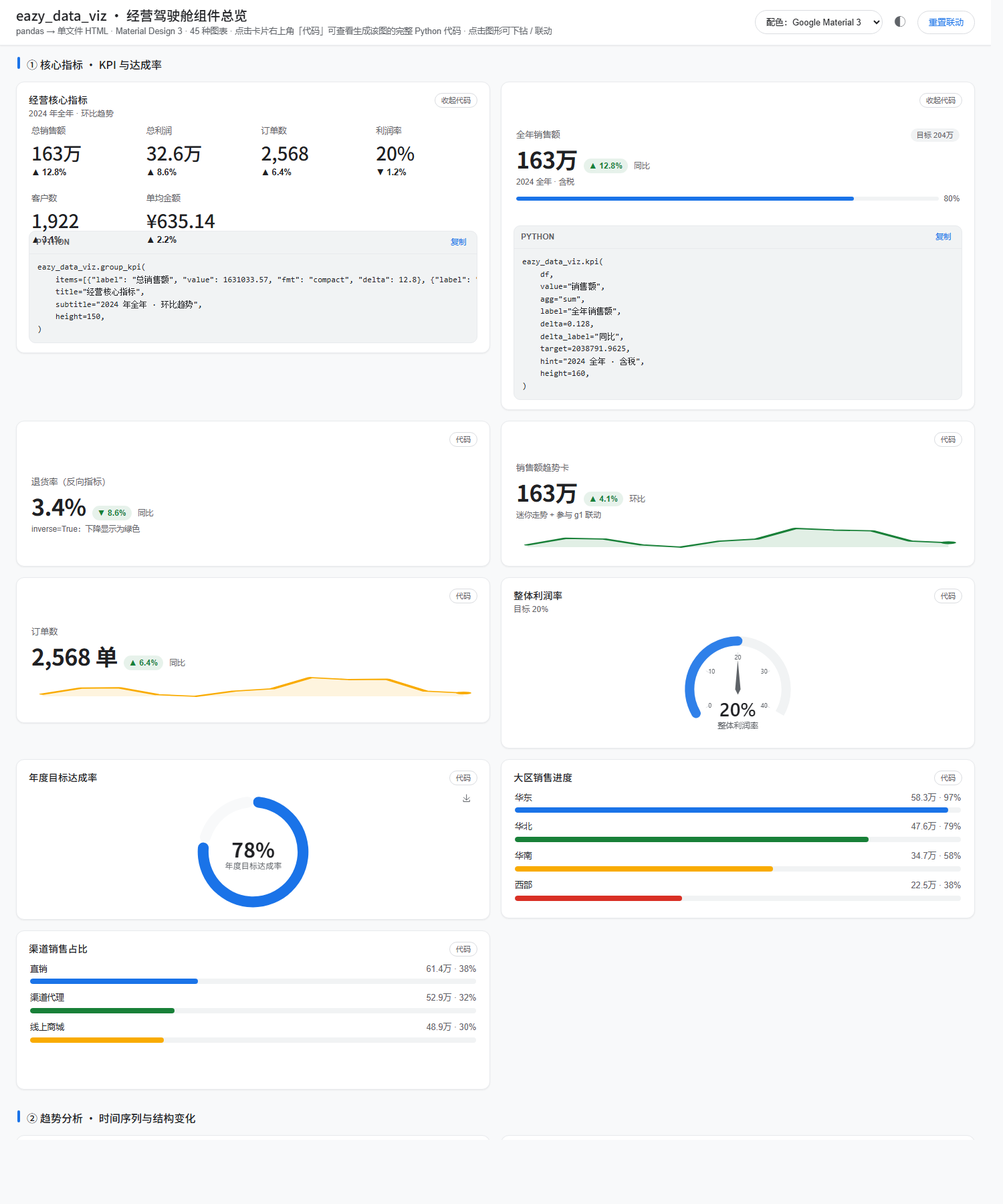
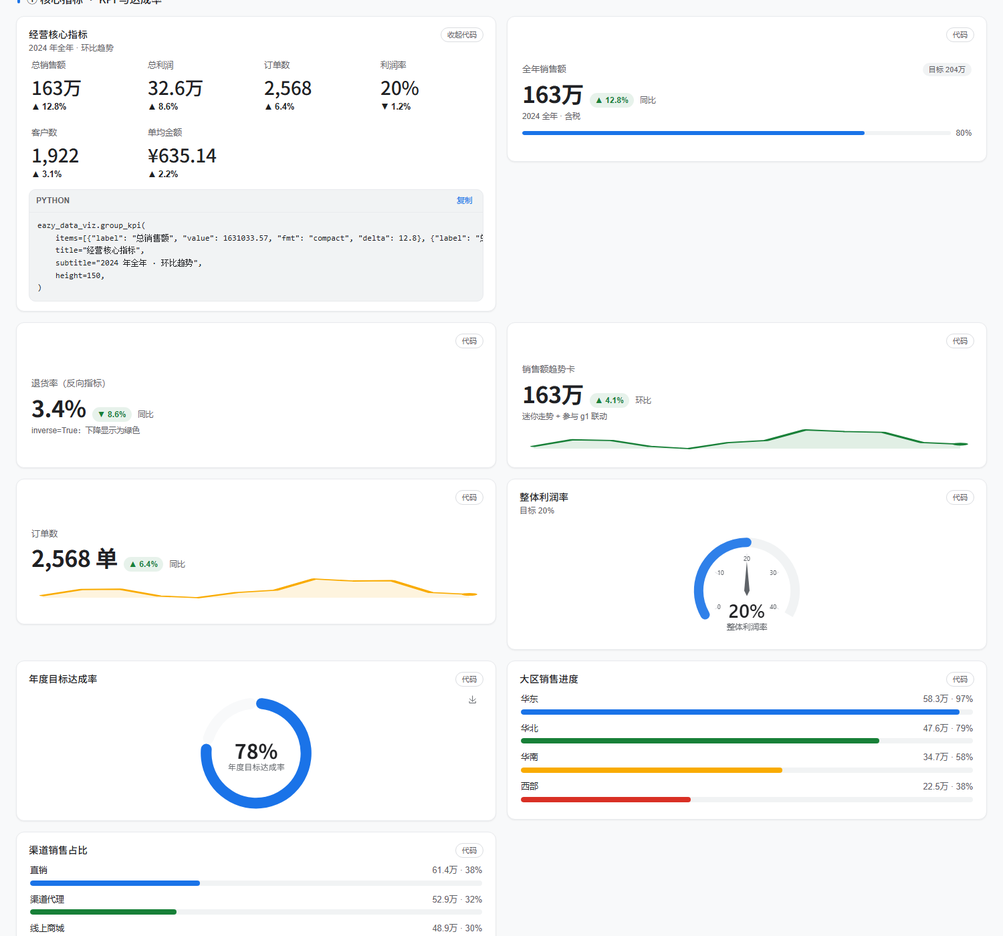
HTML 卡片自适应高度（展开代码不再遮挡正文）；新增 shot_code.py；更新画廊截图

diff --git a/eazy_data_viz/gallery/gallery.html b/eazy_data_viz/gallery/gallery.html
@@ -206,13 +206,13 @@ html[data-theme=dark] .eazy-kpi-delta.eazy-down{background:rgba(242,139,130,.14)
 <div class="eazy-filters" id="eazy-filters" style="display:none"><span class="eazy-filters-label">联动筛选</span></div>
 <div class="eazy-grid" style="grid-template-columns:repeat(2,minmax(0,1fr))">
 <div class="eazy-section">① 核心指标 · KPI 与达成率</div>
-<section class="eazy-card" style="min-height:174px"><div class="eazy-card-head"><div><div class="eazy-card-title">经营核心指标</div><div class="eazy-card-sub">2024 年全年 · 环比趋势</div></div><button class="eazy-codebtn" type="button" data-eazy-code="0" title="显示生成这张图的完整 Python 代码">代码</button></div><div class="eazy-toolbar" data-eazy-toolbar="0"></div><div class="eazy-chart" data-eazy-chart="0" style="height:150px"></div><div class="eazy-code" data-eazy-codebox="0"><div class="eazy-code-top"><span class="lang">PYTHON</span><button class="eazy-copybtn" type="button" data-eazy-copy="0">复制</button></div><pre><code>eazy_data_viz.group_kpi(
+<section class="eazy-card" style="min-height:174px"><div class="eazy-card-head"><div><div class="eazy-card-title">经营核心指标</div><div class="eazy-card-sub">2024 年全年 · 环比趋势</div></div><button class="eazy-codebtn" type="button" data-eazy-code="0" title="显示生成这张图的完整 Python 代码">代码</button></div><div class="eazy-toolbar" data-eazy-toolbar="0"></div><div class="eazy-chart" data-eazy-chart="0" style="min-height:150px"></div><div class="eazy-code" data-eazy-codebox="0"><div class="eazy-code-top"><span class="lang">PYTHON</span><button class="eazy-copybtn" type="button" data-eazy-copy="0">复制</button></div><pre><code>eazy_data_viz.group_kpi(
     items=[{&quot;label&quot;: &quot;总销售额&quot;, &quot;value&quot;: 1631033.57, &quot;fmt&quot;: &quot;compact&quot;, &quot;delta&quot;: 12.8}, {&quot;label&quot;: &quot;总利润&quot;, &quot;value&quot;: 325738.59, &quot;fmt&quot;: &quot;compact&quot;, &quot;delta&quot;: 8.6}, {&quot;label&quot;: &quot;订单数&quot;, &quot;value&quot;: 2568, &quot;fmt&quot;: &quot;thousands&quot;, &quot;delta&quot;: 6.4}, {&quot;label&quot;: &quot;利润率&quot;, &quot;value&quot;: 19.9713, &quot;fmt&quot;: &quot;percent&quot;, &quot;delta&quot;: -1.2}, {&quot;label&quot;: &quot;客户数&quot;, &quot;value&quot;: 1922, &quot;fmt&quot;: &quot;thousands&quot;, &quot;delta&quot;: 3.1}, {&quot;label&quot;: &quot;单均金额&quot;, &quot;value&quot;: 635.1377, &quot;fmt&quot;: &quot;currency&quot;, &quot;delta&quot;: 2.2}],
     title=&quot;经营核心指标&quot;,
     subtitle=&quot;2024 年全年 · 环比趋势&quot;,
     height=150,
 )</code></pre></div></section>
-<section class="eazy-card" style="min-height:184px"><div class="eazy-card-head"><div></div><button class="eazy-codebtn" type="button" data-eazy-code="1" title="显示生成这张图的完整 Python 代码">代码</button></div><div class="eazy-toolbar" data-eazy-toolbar="1"></div><div class="eazy-kpi" data-eazy-chart="1" style="height:160px"></div><div class="eazy-code" data-eazy-codebox="1"><div class="eazy-code-top"><span class="lang">PYTHON</span><button class="eazy-copybtn" type="button" data-eazy-copy="1">复制</button></div><pre><code>eazy_data_viz.kpi(
+<section class="eazy-card" style="min-height:184px"><div class="eazy-card-head"><div></div><button class="eazy-codebtn" type="button" data-eazy-code="1" title="显示生成这张图的完整 Python 代码">代码</button></div><div class="eazy-toolbar" data-eazy-toolbar="1"></div><div class="eazy-kpi" data-eazy-chart="1" style="min-height:160px"></div><div class="eazy-code" data-eazy-codebox="1"><div class="eazy-code-top"><span class="lang">PYTHON</span><button class="eazy-copybtn" type="button" data-eazy-copy="1">复制</button></div><pre><code>eazy_data_viz.kpi(
     df,
     value=&quot;销售额&quot;,
     agg=&quot;sum&quot;,
@@ -223,7 +223,7 @@ html[data-theme=dark] .eazy-kpi-delta.eazy-down{background:rgba(242,139,130,.14)
     hint=&quot;2024 全年 · 含税&quot;,
     height=160,
 )</code></pre></div></section>
-<section class="eazy-card" style="min-height:184px"><div class="eazy-card-head"><div></div><button class="eazy-codebtn" type="button" data-eazy-code="2" title="显示生成这张图的完整 Python 代码">代码</button></div><div class="eazy-toolbar" data-eazy-toolbar="2"></div><div class="eazy-kpi" data-eazy-chart="2" style="height:160px"></div><div class="eazy-code" data-eazy-codebox="2"><div class="eazy-code-top"><span class="lang">PYTHON</span><button class="eazy-copybtn" type="button" data-eazy-copy="2">复制</button></div><pre><code>eazy_data_viz.kpi(
+<section class="eazy-card" style="min-height:184px"><div class="eazy-card-head"><div></div><button class="eazy-codebtn" type="button" data-eazy-code="2" title="显示生成这张图的完整 Python 代码">代码</button></div><div class="eazy-toolbar" data-eazy-toolbar="2"></div><div class="eazy-kpi" data-eazy-chart="2" style="min-height:160px"></div><div class="eazy-code" data-eazy-codebox="2"><div class="eazy-code-top"><span class="lang">PYTHON</span><button class="eazy-copybtn" type="button" data-eazy-copy="2">复制</button></div><pre><code>eazy_data_viz.kpi(
     3.4,
     label=&quot;退货率（反向指标）&quot;,
     delta=-0.086,
@@ -233,7 +233,7 @@ html[data-theme=dark] .eazy-kpi-delta.eazy-down{background:rgba(242,139,130,.14)
     hint=&quot;inverse=True：下降显示为绿色&quot;,
     height=160,
 )</code></pre></div></section>
-<section class="eazy-card" style="min-height:184px"><div class="eazy-card-head"><div></div><button class="eazy-codebtn" type="button" data-eazy-code="3" title="显示生成这张图的完整 Python 代码">代码</button></div><div class="eazy-toolbar" data-eazy-toolbar="3"></div><div class="eazy-kpi" data-eazy-chart="3" style="height:160px"></div><div class="eazy-code" data-eazy-codebox="3"><div class="eazy-code-top"><span class="lang">PYTHON</span><button class="eazy-copybtn" type="button" data-eazy-copy="3">复制</button></div><pre><code>eazy_data_viz.kpi(
+<section class="eazy-card" style="min-height:184px"><div class="eazy-card-head"><div></div><button class="eazy-codebtn" type="button" data-eazy-code="3" title="显示生成这张图的完整 Python 代码">代码</button></div><div class="eazy-toolbar" data-eazy-toolbar="3"></div><div class="eazy-kpi" data-eazy-chart="3" style="min-height:160px"></div><div class="eazy-code" data-eazy-codebox="3"><div class="eazy-code-top"><span class="lang">PYTHON</span><button class="eazy-copybtn" type="button" data-eazy-copy="3">复制</button></div><pre><code>eazy_data_viz.kpi(
     df,
     value=&quot;销售额&quot;,
     agg=&quot;sum&quot;,
@@ -247,7 +247,7 @@ html[data-theme=dark] .eazy-kpi-delta.eazy-down{background:rgba(242,139,130,.14)
     hint=&quot;迷你走势 + 参与 g1 联动&quot;,
     height=160,
 )</code></pre></div></section>
-<section class="eazy-card" style="min-height:184px"><div class="eazy-card-head"><div></div><button class="eazy-codebtn" type="button" data-eazy-code="4" title="显示生成这张图的完整 Python 代码">代码</button></div><div class="eazy-toolbar" data-eazy-toolbar="4"></div><div class="eazy-kpi" data-eazy-chart="4" style="height:160px"></div><div class="eazy-code" data-eazy-codebox="4"><div class="eazy-code-top"><span class="lang">PYTHON</span><button class="eazy-copybtn" type="button" data-eazy-copy="4">复制</button></div><pre><code>eazy_data_viz.kpi(
+<section class="eazy-card" style="min-height:184px"><div class="eazy-card-head"><div></div><button class="eazy-codebtn" type="button" data-eazy-code="4" title="显示生成这张图的完整 Python 代码">代码</button></div><div class="eazy-toolbar" data-eazy-toolbar="4"></div><div class="eazy-kpi" data-eazy-chart="4" style="min-height:160px"></div><div class="eazy-code" data-eazy-codebox="4"><div class="eazy-code-top"><span class="lang">PYTHON</span><button class="eazy-copybtn" type="button" data-eazy-copy="4">复制</button></div><pre><code>eazy_data_viz.kpi(
     df,
     value=&quot;订单数&quot;,
     agg=&quot;sum&quot;,
@@ -271,8 +271,8 @@ html[data-theme=dark] .eazy-kpi-delta.eazy-down{background:rgba(242,139,130,.14)
     subtitle=&quot;目标 20%&quot;,
 )</code></pre></div></section>
 <section class="eazy-card" style="min-height:240px"><div class="eazy-card-head"><div><div class="eazy-card-title">年度目标达成率</div></div><button class="eazy-codebtn" type="button" data-eazy-code="6" title="显示生成这张图的完整 Python 代码">代码</button></div><div class="eazy-toolbar" data-eazy-toolbar="6"></div><div class="eazy-chart" data-eazy-chart="6" style="height:180px"></div><div class="eazy-code" data-eazy-codebox="6"><div class="eazy-code-top"><span class="lang">PYTHON</span><button class="eazy-copybtn" type="button" data-eazy-copy="6">复制</button></div><pre><code>eazy_data_viz.ring_progress(78, label=&quot;年度目标达成率&quot;, max=100, height=180)</code></pre></div></section>
-<section class="eazy-card" style="min-height:236px"><div class="eazy-card-head"><div><div class="eazy-card-title">大区销售进度</div></div><button class="eazy-codebtn" type="button" data-eazy-code="7" title="显示生成这张图的完整 Python 代码">代码</button></div><div class="eazy-toolbar" data-eazy-toolbar="7"></div><div class="eazy-chart" data-eazy-chart="7" style="height:180px"></div><div class="eazy-code" data-eazy-codebox="7"><div class="eazy-code-top"><span class="lang">PYTHON</span><button class="eazy-copybtn" type="button" data-eazy-copy="7">复制</button></div><pre><code>eazy_data_viz.progress(g_region, x=&quot;大区&quot;, y=&quot;销售额&quot;, max=600000, title=&quot;大区销售进度&quot;, height=180)</code></pre></div></section>
-<section class="eazy-card" style="min-height:236px"><div class="eazy-card-head"><div><div class="eazy-card-title">渠道销售占比</div></div><button class="eazy-codebtn" type="button" data-eazy-code="8" title="显示生成这张图的完整 Python 代码">代码</button></div><div class="eazy-toolbar" data-eazy-toolbar="8"></div><div class="eazy-chart" data-eazy-chart="8" style="height:180px"></div><div class="eazy-code" data-eazy-codebox="8"><div class="eazy-code-top"><span class="lang">PYTHON</span><button class="eazy-copybtn" type="button" data-eazy-copy="8">复制</button></div><pre><code>eazy_data_viz.progress(df, x=&quot;渠道&quot;, y=&quot;销售额&quot;, max=1631033.57, title=&quot;渠道销售占比&quot;, height=180)</code></pre></div></section>
+<section class="eazy-card" style="min-height:236px"><div class="eazy-card-head"><div><div class="eazy-card-title">大区销售进度</div></div><button class="eazy-codebtn" type="button" data-eazy-code="7" title="显示生成这张图的完整 Python 代码">代码</button></div><div class="eazy-toolbar" data-eazy-toolbar="7"></div><div class="eazy-chart" data-eazy-chart="7" style="min-height:180px"></div><div class="eazy-code" data-eazy-codebox="7"><div class="eazy-code-top"><span class="lang">PYTHON</span><button class="eazy-copybtn" type="button" data-eazy-copy="7">复制</button></div><pre><code>eazy_data_viz.progress(g_region, x=&quot;大区&quot;, y=&quot;销售额&quot;, max=600000, title=&quot;大区销售进度&quot;, height=180)</code></pre></div></section>
+<section class="eazy-card" style="min-height:236px"><div class="eazy-card-head"><div><div class="eazy-card-title">渠道销售占比</div></div><button class="eazy-codebtn" type="button" data-eazy-code="8" title="显示生成这张图的完整 Python 代码">代码</button></div><div class="eazy-toolbar" data-eazy-toolbar="8"></div><div class="eazy-chart" data-eazy-chart="8" style="min-height:180px"></div><div class="eazy-code" data-eazy-codebox="8"><div class="eazy-code-top"><span class="lang">PYTHON</span><button class="eazy-copybtn" type="button" data-eazy-copy="8">复制</button></div><pre><code>eazy_data_viz.progress(df, x=&quot;渠道&quot;, y=&quot;销售额&quot;, max=1631033.57, title=&quot;渠道销售占比&quot;, height=180)</code></pre></div></section>
 <div class="eazy-section">② 趋势分析 · 时间序列与结构变化</div>
 <section class="eazy-card" style="min-height:420px"><div class="eazy-card-head"><div><div class="eazy-card-title">月度销售额趋势（多系列）</div></div><button class="eazy-codebtn" type="button" data-eazy-code="9" title="显示生成这张图的完整 Python 代码">代码</button></div><div class="eazy-toolbar" data-eazy-toolbar="9"></div><div class="eazy-chart" data-eazy-chart="9" style="height:360px"></div><div class="eazy-code" data-eazy-codebox="9"><div class="eazy-code-top"><span class="lang">PYTHON</span><button class="eazy-copybtn" type="button" data-eazy-copy="9">复制</button></div><pre><code>eazy_data_viz.line(df, x=&quot;月份&quot;, y=&quot;销售额&quot;, color=&quot;渠道&quot;, title=&quot;月度销售额趋势（多系列）&quot;, height=360)</code></pre></div></section>
 <section class="eazy-card" style="min-height:420px"><div class="eazy-card-head"><div><div class="eazy-card-title">日销售额走势（时间轴）</div></div><button class="eazy-codebtn" type="button" data-eazy-code="10" title="显示生成这张图的完整 Python 代码">代码</button></div><div class="eazy-toolbar" data-eazy-toolbar="10"></div><div class="eazy-chart" data-eazy-chart="10" style="height:360px"></div><div class="eazy-code" data-eazy-codebox="10"><div class="eazy-code-top"><span class="lang">PYTHON</span><button class="eazy-copybtn" type="button" data-eazy-copy="10">复制</button></div><pre><code>eazy_data_viz.line(
@@ -382,7 +382,7 @@ html[data-theme=dark] .eazy-kpi-delta.eazy-down{background:rgba(242,139,130,.14)
 <section class="eazy-card" style="min-height:460px"><div class="eazy-card-head"><div><div class="eazy-card-title">矩形树图：大区 → 省份</div></div><button class="eazy-codebtn" type="button" data-eazy-code="35" title="显示生成这张图的完整 Python 代码">代码</button></div><div class="eazy-toolbar" data-eazy-toolbar="35"></div><div class="eazy-chart" data-eazy-chart="35" style="height:400px"></div><div class="eazy-code" data-eazy-codebox="35"><div class="eazy-code-top"><span class="lang">PYTHON</span><button class="eazy-copybtn" type="button" data-eazy-copy="35">复制</button></div><pre><code>eazy_data_viz.treemap(df, path=[&quot;大区&quot;, &quot;省份&quot;], value=&quot;销售额&quot;, title=&quot;矩形树图：大区 → 省份&quot;, height=400)</code></pre></div></section>
 <section class="eazy-card" style="min-height:460px"><div class="eazy-card-head"><div><div class="eazy-card-title">旭日图：层级占比</div></div><button class="eazy-codebtn" type="button" data-eazy-code="36" title="显示生成这张图的完整 Python 代码">代码</button></div><div class="eazy-toolbar" data-eazy-toolbar="36"></div><div class="eazy-chart" data-eazy-chart="36" style="height:400px"></div><div class="eazy-code" data-eazy-codebox="36"><div class="eazy-code-top"><span class="lang">PYTHON</span><button class="eazy-copybtn" type="button" data-eazy-copy="36">复制</button></div><pre><code>eazy_data_viz.sunburst(df, path=[&quot;大区&quot;, &quot;省份&quot;], value=&quot;销售额&quot;, title=&quot;旭日图：层级占比&quot;, height=400)</code></pre></div></section>
 <section class="eazy-card" style="min-height:580px"><div class="eazy-card-head"><div><div class="eazy-card-title">树图：层级结构</div></div><button class="eazy-codebtn" type="button" data-eazy-code="37" title="显示生成这张图的完整 Python 代码">代码</button></div><div class="eazy-toolbar" data-eazy-toolbar="37"></div><div class="eazy-chart" data-eazy-chart="37" style="height:520px"></div><div class="eazy-code" data-eazy-codebox="37"><div class="eazy-code-top"><span class="lang">PYTHON</span><button class="eazy-copybtn" type="button" data-eazy-copy="37">复制</button></div><pre><code>eazy_data_viz.tree(df, path=[&quot;大区&quot;, &quot;省份&quot;], value=&quot;销售额&quot;, title=&quot;树图：层级结构&quot;, height=520)</code></pre></div></section>
-<section class="eazy-card" style="min-height:356px"><div class="eazy-card-head"><div><div class="eazy-card-title">瓦片图：省份销售额深浅</div></div><button class="eazy-codebtn" type="button" data-eazy-code="38" title="显示生成这张图的完整 Python 代码">代码</button></div><div class="eazy-toolbar" data-eazy-toolbar="38"></div><div class="eazy-chart" data-eazy-chart="38" style="height:300px"></div><div class="eazy-code" data-eazy-codebox="38"><div class="eazy-code-top"><span class="lang">PYTHON</span><button class="eazy-copybtn" type="button" data-eazy-copy="38">复制</button></div><pre><code>eazy_data_viz.tile(df, names=&quot;省份&quot;, values=&quot;销售额&quot;, top_n=8, title=&quot;瓦片图：省份销售额深浅&quot;, height=300)</code></pre></div></section>
+<section class="eazy-card" style="min-height:356px"><div class="eazy-card-head"><div><div class="eazy-card-title">瓦片图：省份销售额深浅</div></div><button class="eazy-codebtn" type="button" data-eazy-code="38" title="显示生成这张图的完整 Python 代码">代码</button></div><div class="eazy-toolbar" data-eazy-toolbar="38"></div><div class="eazy-chart" data-eazy-chart="38" style="min-height:300px"></div><div class="eazy-code" data-eazy-codebox="38"><div class="eazy-code-top"><span class="lang">PYTHON</span><button class="eazy-copybtn" type="button" data-eazy-copy="38">复制</button></div><pre><code>eazy_data_viz.tile(df, names=&quot;省份&quot;, values=&quot;销售额&quot;, top_n=8, title=&quot;瓦片图：省份销售额深浅&quot;, height=300)</code></pre></div></section>
 <div class="eazy-section">⑤ 分布与关系 · 找规律、找相关</div>
 <section class="eazy-card" style="min-height:420px"><div class="eazy-card-head"><div><div class="eazy-card-title">直方图：销售额分布</div></div><button class="eazy-codebtn" type="button" data-eazy-code="39" title="显示生成这张图的完整 Python 代码">代码</button></div><div class="eazy-toolbar" data-eazy-toolbar="39"></div><div class="eazy-chart" data-eazy-chart="39" style="height:360px"></div><div class="eazy-code" data-eazy-codebox="39"><div class="eazy-code-top"><span class="lang">PYTHON</span><button class="eazy-copybtn" type="button" data-eazy-copy="39">复制</button></div><pre><code>eazy_data_viz.histogram(df, column=&quot;销售额&quot;, bins=24, title=&quot;直方图：销售额分布&quot;, height=360)</code></pre></div></section>
 <section class="eazy-card" style="min-height:420px"><div class="eazy-card-head"><div><div class="eazy-card-title">箱线图：产品销售额离散度</div></div><button class="eazy-codebtn" type="button" data-eazy-code="40" title="显示生成这张图的完整 Python 代码">代码</button></div><div class="eazy-toolbar" data-eazy-toolbar="40"></div><div class="eazy-chart" data-eazy-chart="40" style="height:360px"></div><div class="eazy-code" data-eazy-codebox="40"><div class="eazy-code-top"><span class="lang">PYTHON</span><button class="eazy-copybtn" type="button" data-eazy-copy="40">复制</button></div><pre><code>eazy_data_viz.box(df, x=&quot;产品&quot;, y=&quot;销售额&quot;, title=&quot;箱线图：产品销售额离散度&quot;, height=360)</code></pre></div></section>
@@ -446,7 +446,7 @@ html[data-theme=dark] .eazy-kpi-delta.eazy-down{background:rgba(242,139,130,.14)
     title=&quot;明细表（前 12 行）&quot;,
     height=420,
 )</code></pre></div></section>
-<section class="eazy-card" style="min-height:376px"><div class="eazy-card-head"><div><div class="eazy-card-title">词云：城市销售额</div></div><button class="eazy-codebtn" type="button" data-eazy-code="50" title="显示生成这张图的完整 Python 代码">代码</button></div><div class="eazy-toolbar" data-eazy-toolbar="50"></div><div class="eazy-chart" data-eazy-chart="50" style="height:320px"></div><div class="eazy-code" data-eazy-codebox="50"><div class="eazy-code-top"><span class="lang">PYTHON</span><button class="eazy-copybtn" type="button" data-eazy-copy="50">复制</button></div><pre><code>eazy_data_viz.wordcloud(
+<section class="eazy-card" style="min-height:376px"><div class="eazy-card-head"><div><div class="eazy-card-title">词云：城市销售额</div></div><button class="eazy-codebtn" type="button" data-eazy-code="50" title="显示生成这张图的完整 Python 代码">代码</button></div><div class="eazy-toolbar" data-eazy-toolbar="50"></div><div class="eazy-chart" data-eazy-chart="50" style="min-height:320px"></div><div class="eazy-code" data-eazy-codebox="50"><div class="eazy-code-top"><span class="lang">PYTHON</span><button class="eazy-copybtn" type="button" data-eazy-copy="50">复制</button></div><pre><code>eazy_data_viz.wordcloud(
     df,
     names=&quot;城市&quot;,
     values=&quot;销售额&quot;,

diff --git a/gallery.html b/gallery.html
@@ -206,13 +206,13 @@ html[data-theme=dark] .eazy-kpi-delta.eazy-down{background:rgba(242,139,130,.14)
 <div class="eazy-filters" id="eazy-filters" style="display:none"><span class="eazy-filters-label">联动筛选</span></div>
 <div class="eazy-grid" style="grid-template-columns:repeat(2,minmax(0,1fr))">
 <div class="eazy-section">① 核心指标 · KPI 与达成率</div>
-<section class="eazy-card" style="min-height:174px"><div class="eazy-card-head"><div><div class="eazy-card-title">经营核心指标</div><div class="eazy-card-sub">2024 年全年 · 环比趋势</div></div><button class="eazy-codebtn" type="button" data-eazy-code="0" title="显示生成这张图的完整 Python 代码">代码</button></div><div class="eazy-toolbar" data-eazy-toolbar="0"></div><div class="eazy-chart" data-eazy-chart="0" style="height:150px"></div><div class="eazy-code" data-eazy-codebox="0"><div class="eazy-code-top"><span class="lang">PYTHON</span><button class="eazy-copybtn" type="button" data-eazy-copy="0">复制</button></div><pre><code>eazy_data_viz.group_kpi(
+<section class="eazy-card" style="min-height:174px"><div class="eazy-card-head"><div><div class="eazy-card-title">经营核心指标</div><div class="eazy-card-sub">2024 年全年 · 环比趋势</div></div><button class="eazy-codebtn" type="button" data-eazy-code="0" title="显示生成这张图的完整 Python 代码">代码</button></div><div class="eazy-toolbar" data-eazy-toolbar="0"></div><div class="eazy-chart" data-eazy-chart="0" style="min-height:150px"></div><div class="eazy-code" data-eazy-codebox="0"><div class="eazy-code-top"><span class="lang">PYTHON</span><button class="eazy-copybtn" type="button" data-eazy-copy="0">复制</button></div><pre><code>eazy_data_viz.group_kpi(
     items=[{&quot;label&quot;: &quot;总销售额&quot;, &quot;value&quot;: 1631033.57, &quot;fmt&quot;: &quot;compact&quot;, &quot;delta&quot;: 12.8}, {&quot;label&quot;: &quot;总利润&quot;, &quot;value&quot;: 325738.59, &quot;fmt&quot;: &quot;compact&quot;, &quot;delta&quot;: 8.6}, {&quot;label&quot;: &quot;订单数&quot;, &quot;value&quot;: 2568, &quot;fmt&quot;: &quot;thousands&quot;, &quot;delta&quot;: 6.4}, {&quot;label&quot;: &quot;利润率&quot;, &quot;value&quot;: 19.9713, &quot;fmt&quot;: &quot;percent&quot;, &quot;delta&quot;: -1.2}, {&quot;label&quot;: &quot;客户数&quot;, &quot;value&quot;: 1922, &quot;fmt&quot;: &quot;thousands&quot;, &quot;delta&quot;: 3.1}, {&quot;label&quot;: &quot;单均金额&quot;, &quot;value&quot;: 635.1377, &quot;fmt&quot;: &quot;currency&quot;, &quot;delta&quot;: 2.2}],
     title=&quot;经营核心指标&quot;,
     subtitle=&quot;2024 年全年 · 环比趋势&quot;,
     height=150,
 )</code></pre></div></section>
-<section class="eazy-card" style="min-height:184px"><div class="eazy-card-head"><div></div><button class="eazy-codebtn" type="button" data-eazy-code="1" title="显示生成这张图的完整 Python 代码">代码</button></div><div class="eazy-toolbar" data-eazy-toolbar="1"></div><div class="eazy-kpi" data-eazy-chart="1" style="height:160px"></div><div class="eazy-code" data-eazy-codebox="1"><div class="eazy-code-top"><span class="lang">PYTHON</span><button class="eazy-copybtn" type="button" data-eazy-copy="1">复制</button></div><pre><code>eazy_data_viz.kpi(
+<section class="eazy-card" style="min-height:184px"><div class="eazy-card-head"><div></div><button class="eazy-codebtn" type="button" data-eazy-code="1" title="显示生成这张图的完整 Python 代码">代码</button></div><div class="eazy-toolbar" data-eazy-toolbar="1"></div><div class="eazy-kpi" data-eazy-chart="1" style="min-height:160px"></div><div class="eazy-code" data-eazy-codebox="1"><div class="eazy-code-top"><span class="lang">PYTHON</span><button class="eazy-copybtn" type="button" data-eazy-copy="1">复制</button></div><pre><code>eazy_data_viz.kpi(
     df,
     value=&quot;销售额&quot;,
     agg=&quot;sum&quot;,
@@ -223,7 +223,7 @@ html[data-theme=dark] .eazy-kpi-delta.eazy-down{background:rgba(242,139,130,.14)
     hint=&quot;2024 全年 · 含税&quot;,
     height=160,
 )</code></pre></div></section>
-<section class="eazy-card" style="min-height:184px"><div class="eazy-card-head"><div></div><button class="eazy-codebtn" type="button" data-eazy-code="2" title="显示生成这张图的完整 Python 代码">代码</button></div><div class="eazy-toolbar" data-eazy-toolbar="2"></div><div class="eazy-kpi" data-eazy-chart="2" style="height:160px"></div><div class="eazy-code" data-eazy-codebox="2"><div class="eazy-code-top"><span class="lang">PYTHON</span><button class="eazy-copybtn" type="button" data-eazy-copy="2">复制</button></div><pre><code>eazy_data_viz.kpi(
+<section class="eazy-card" style="min-height:184px"><div class="eazy-card-head"><div></div><button class="eazy-codebtn" type="button" data-eazy-code="2" title="显示生成这张图的完整 Python 代码">代码</button></div><div class="eazy-toolbar" data-eazy-toolbar="2"></div><div class="eazy-kpi" data-eazy-chart="2" style="min-height:160px"></div><div class="eazy-code" data-eazy-codebox="2"><div class="eazy-code-top"><span class="lang">PYTHON</span><button class="eazy-copybtn" type="button" data-eazy-copy="2">复制</button></div><pre><code>eazy_data_viz.kpi(
     3.4,
     label=&quot;退货率（反向指标）&quot;,
     delta=-0.086,
@@ -233,7 +233,7 @@ html[data-theme=dark] .eazy-kpi-delta.eazy-down{background:rgba(242,139,130,.14)
     hint=&quot;inverse=True：下降显示为绿色&quot;,
     height=160,
 )</code></pre></div></section>
-<section class="eazy-card" style="min-height:184px"><div class="eazy-card-head"><div></div><button class="eazy-codebtn" type="button" data-eazy-code="3" title="显示生成这张图的完整 Python 代码">代码</button></div><div class="eazy-toolbar" data-eazy-toolbar="3"></div><div class="eazy-kpi" data-eazy-chart="3" style="height:160px"></div><div class="eazy-code" data-eazy-codebox="3"><div class="eazy-code-top"><span class="lang">PYTHON</span><button class="eazy-copybtn" type="button" data-eazy-copy="3">复制</button></div><pre><code>eazy_data_viz.kpi(
+<section class="eazy-card" style="min-height:184px"><div class="eazy-card-head"><div></div><button class="eazy-codebtn" type="button" data-eazy-code="3" title="显示生成这张图的完整 Python 代码">代码</button></div><div class="eazy-toolbar" data-eazy-toolbar="3"></div><div class="eazy-kpi" data-eazy-chart="3" style="min-height:160px"></div><div class="eazy-code" data-eazy-codebox="3"><div class="eazy-code-top"><span class="lang">PYTHON</span><button class="eazy-copybtn" type="button" data-eazy-copy="3">复制</button></div><pre><code>eazy_data_viz.kpi(
     df,
     value=&quot;销售额&quot;,
     agg=&quot;sum&quot;,
@@ -247,7 +247,7 @@ html[data-theme=dark] .eazy-kpi-delta.eazy-down{background:rgba(242,139,130,.14)
     hint=&quot;迷你走势 + 参与 g1 联动&quot;,
     height=160,
 )</code></pre></div></section>
-<section class="eazy-card" style="min-height:184px"><div class="eazy-card-head"><div></div><button class="eazy-codebtn" type="button" data-eazy-code="4" title="显示生成这张图的完整 Python 代码">代码</button></div><div class="eazy-toolbar" data-eazy-toolbar="4"></div><div class="eazy-kpi" data-eazy-chart="4" style="height:160px"></div><div class="eazy-code" data-eazy-codebox="4"><div class="eazy-code-top"><span class="lang">PYTHON</span><button class="eazy-copybtn" type="button" data-eazy-copy="4">复制</button></div><pre><code>eazy_data_viz.kpi(
+<section class="eazy-card" style="min-height:184px"><div class="eazy-card-head"><div></div><button class="eazy-codebtn" type="button" data-eazy-code="4" title="显示生成这张图的完整 Python 代码">代码</button></div><div class="eazy-toolbar" data-eazy-toolbar="4"></div><div class="eazy-kpi" data-eazy-chart="4" style="min-height:160px"></div><div class="eazy-code" data-eazy-codebox="4"><div class="eazy-code-top"><span class="lang">PYTHON</span><button class="eazy-copybtn" type="button" data-eazy-copy="4">复制</button></div><pre><code>eazy_data_viz.kpi(
     df,
     value=&quot;订单数&quot;,
     agg=&quot;sum&quot;,
@@ -271,8 +271,8 @@ html[data-theme=dark] .eazy-kpi-delta.eazy-down{background:rgba(242,139,130,.14)
     subtitle=&quot;目标 20%&quot;,
 )</code></pre></div></section>
 <section class="eazy-card" style="min-height:240px"><div class="eazy-card-head"><div><div class="eazy-card-title">年度目标达成率</div></div><button class="eazy-codebtn" type="button" data-eazy-code="6" title="显示生成这张图的完整 Python 代码">代码</button></div><div class="eazy-toolbar" data-eazy-toolbar="6"></div><div class="eazy-chart" data-eazy-chart="6" style="height:180px"></div><div class="eazy-code" data-eazy-codebox="6"><div class="eazy-code-top"><span class="lang">PYTHON</span><button class="eazy-copybtn" type="button" data-eazy-copy="6">复制</button></div><pre><code>eazy_data_viz.ring_progress(78, label=&quot;年度目标达成率&quot;, max=100, height=180)</code></pre></div></section>
-<section class="eazy-card" style="min-height:236px"><div class="eazy-card-head"><div><div class="eazy-card-title">大区销售进度</div></div><button class="eazy-codebtn" type="button" data-eazy-code="7" title="显示生成这张图的完整 Python 代码">代码</button></div><div class="eazy-toolbar" data-eazy-toolbar="7"></div><div class="eazy-chart" data-eazy-chart="7" style="height:180px"></div><div class="eazy-code" data-eazy-codebox="7"><div class="eazy-code-top"><span class="lang">PYTHON</span><button class="eazy-copybtn" type="button" data-eazy-copy="7">复制</button></div><pre><code>eazy_data_viz.progress(g_region, x=&quot;大区&quot;, y=&quot;销售额&quot;, max=600000, title=&quot;大区销售进度&quot;, height=180)</code></pre></div></section>
-<section class="eazy-card" style="min-height:236px"><div class="eazy-card-head"><div><div class="eazy-card-title">渠道销售占比</div></div><button class="eazy-codebtn" type="button" data-eazy-code="8" title="显示生成这张图的完整 Python 代码">代码</button></div><div class="eazy-toolbar" data-eazy-toolbar="8"></div><div class="eazy-chart" data-eazy-chart="8" style="height:180px"></div><div class="eazy-code" data-eazy-codebox="8"><div class="eazy-code-top"><span class="lang">PYTHON</span><button class="eazy-copybtn" type="button" data-eazy-copy="8">复制</button></div><pre><code>eazy_data_viz.progress(df, x=&quot;渠道&quot;, y=&quot;销售额&quot;, max=1631033.57, title=&quot;渠道销售占比&quot;, height=180)</code></pre></div></section>
+<section class="eazy-card" style="min-height:236px"><div class="eazy-card-head"><div><div class="eazy-card-title">大区销售进度</div></div><button class="eazy-codebtn" type="button" data-eazy-code="7" title="显示生成这张图的完整 Python 代码">代码</button></div><div class="eazy-toolbar" data-eazy-toolbar="7"></div><div class="eazy-chart" data-eazy-chart="7" style="min-height:180px"></div><div class="eazy-code" data-eazy-codebox="7"><div class="eazy-code-top"><span class="lang">PYTHON</span><button class="eazy-copybtn" type="button" data-eazy-copy="7">复制</button></div><pre><code>eazy_data_viz.progress(g_region, x=&quot;大区&quot;, y=&quot;销售额&quot;, max=600000, title=&quot;大区销售进度&quot;, height=180)</code></pre></div></section>
+<section class="eazy-card" style="min-height:236px"><div class="eazy-card-head"><div><div class="eazy-card-title">渠道销售占比</div></div><button class="eazy-codebtn" type="button" data-eazy-code="8" title="显示生成这张图的完整 Python 代码">代码</button></div><div class="eazy-toolbar" data-eazy-toolbar="8"></div><div class="eazy-chart" data-eazy-chart="8" style="min-height:180px"></div><div class="eazy-code" data-eazy-codebox="8"><div class="eazy-code-top"><span class="lang">PYTHON</span><button class="eazy-copybtn" type="button" data-eazy-copy="8">复制</button></div><pre><code>eazy_data_viz.progress(df, x=&quot;渠道&quot;, y=&quot;销售额&quot;, max=1631033.57, title=&quot;渠道销售占比&quot;, height=180)</code></pre></div></section>
 <div class="eazy-section">② 趋势分析 · 时间序列与结构变化</div>
 <section class="eazy-card" style="min-height:420px"><div class="eazy-card-head"><div><div class="eazy-card-title">月度销售额趋势（多系列）</div></div><button class="eazy-codebtn" type="button" data-eazy-code="9" title="显示生成这张图的完整 Python 代码">代码</button></div><div class="eazy-toolbar" data-eazy-toolbar="9"></div><div class="eazy-chart" data-eazy-chart="9" style="height:360px"></div><div class="eazy-code" data-eazy-codebox="9"><div class="eazy-code-top"><span class="lang">PYTHON</span><button class="eazy-copybtn" type="button" data-eazy-copy="9">复制</button></div><pre><code>eazy_data_viz.line(df, x=&quot;月份&quot;, y=&quot;销售额&quot;, color=&quot;渠道&quot;, title=&quot;月度销售额趋势（多系列）&quot;, height=360)</code></pre></div></section>
 <section class="eazy-card" style="min-height:420px"><div class="eazy-card-head"><div><div class="eazy-card-title">日销售额走势（时间轴）</div></div><button class="eazy-codebtn" type="button" data-eazy-code="10" title="显示生成这张图的完整 Python 代码">代码</button></div><div class="eazy-toolbar" data-eazy-toolbar="10"></div><div class="eazy-chart" data-eazy-chart="10" style="height:360px"></div><div class="eazy-code" data-eazy-codebox="10"><div class="eazy-code-top"><span class="lang">PYTHON</span><button class="eazy-copybtn" type="button" data-eazy-copy="10">复制</button></div><pre><code>eazy_data_viz.line(
@@ -382,7 +382,7 @@ html[data-theme=dark] .eazy-kpi-delta.eazy-down{background:rgba(242,139,130,.14)
 <section class="eazy-card" style="min-height:460px"><div class="eazy-card-head"><div><div class="eazy-card-title">矩形树图：大区 → 省份</div></div><button class="eazy-codebtn" type="button" data-eazy-code="35" title="显示生成这张图的完整 Python 代码">代码</button></div><div class="eazy-toolbar" data-eazy-toolbar="35"></div><div class="eazy-chart" data-eazy-chart="35" style="height:400px"></div><div class="eazy-code" data-eazy-codebox="35"><div class="eazy-code-top"><span class="lang">PYTHON</span><button class="eazy-copybtn" type="button" data-eazy-copy="35">复制</button></div><pre><code>eazy_data_viz.treemap(df, path=[&quot;大区&quot;, &quot;省份&quot;], value=&quot;销售额&quot;, title=&quot;矩形树图：大区 → 省份&quot;, height=400)</code></pre></div></section>
 <section class="eazy-card" style="min-height:460px"><div class="eazy-card-head"><div><div class="eazy-card-title">旭日图：层级占比</div></div><button class="eazy-codebtn" type="button" data-eazy-code="36" title="显示生成这张图的完整 Python 代码">代码</button></div><div class="eazy-toolbar" data-eazy-toolbar="36"></div><div class="eazy-chart" data-eazy-chart="36" style="height:400px"></div><div class="eazy-code" data-eazy-codebox="36"><div class="eazy-code-top"><span class="lang">PYTHON</span><button class="eazy-copybtn" type="button" data-eazy-copy="36">复制</button></div><pre><code>eazy_data_viz.sunburst(df, path=[&quot;大区&quot;, &quot;省份&quot;], value=&quot;销售额&quot;, title=&quot;旭日图：层级占比&quot;, height=400)</code></pre></div></section>
 <section class="eazy-card" style="min-height:580px"><div class="eazy-card-head"><div><div class="eazy-card-title">树图：层级结构</div></div><button class="eazy-codebtn" type="button" data-eazy-code="37" title="显示生成这张图的完整 Python 代码">代码</button></div><div class="eazy-toolbar" data-eazy-toolbar="37"></div><div class="eazy-chart" data-eazy-chart="37" style="height:520px"></div><div class="eazy-code" data-eazy-codebox="37"><div class="eazy-code-top"><span class="lang">PYTHON</span><button class="eazy-copybtn" type="button" data-eazy-copy="37">复制</button></div><pre><code>eazy_data_viz.tree(df, path=[&quot;大区&quot;, &quot;省份&quot;], value=&quot;销售额&quot;, title=&quot;树图：层级结构&quot;, height=520)</code></pre></div></section>
-<section class="eazy-card" style="min-height:356px"><div class="eazy-card-head"><div><div class="eazy-card-title">瓦片图：省份销售额深浅</div></div><button class="eazy-codebtn" type="button" data-eazy-code="38" title="显示生成这张图的完整 Python 代码">代码</button></div><div class="eazy-toolbar" data-eazy-toolbar="38"></div><div class="eazy-chart" data-eazy-chart="38" style="height:300px"></div><div class="eazy-code" data-eazy-codebox="38"><div class="eazy-code-top"><span class="lang">PYTHON</span><button class="eazy-copybtn" type="button" data-eazy-copy="38">复制</button></div><pre><code>eazy_data_viz.tile(df, names=&quot;省份&quot;, values=&quot;销售额&quot;, top_n=8, title=&quot;瓦片图：省份销售额深浅&quot;, height=300)</code></pre></div></section>
+<section class="eazy-card" style="min-height:356px"><div class="eazy-card-head"><div><div class="eazy-card-title">瓦片图：省份销售额深浅</div></div><button class="eazy-codebtn" type="button" data-eazy-code="38" title="显示生成这张图的完整 Python 代码">代码</button></div><div class="eazy-toolbar" data-eazy-toolbar="38"></div><div class="eazy-chart" data-eazy-chart="38" style="min-height:300px"></div><div class="eazy-code" data-eazy-codebox="38"><div class="eazy-code-top"><span class="lang">PYTHON</span><button class="eazy-copybtn" type="button" data-eazy-copy="38">复制</button></div><pre><code>eazy_data_viz.tile(df, names=&quot;省份&quot;, values=&quot;销售额&quot;, top_n=8, title=&quot;瓦片图：省份销售额深浅&quot;, height=300)</code></pre></div></section>
 <div class="eazy-section">⑤ 分布与关系 · 找规律、找相关</div>
 <section class="eazy-card" style="min-height:420px"><div class="eazy-card-head"><div><div class="eazy-card-title">直方图：销售额分布</div></div><button class="eazy-codebtn" type="button" data-eazy-code="39" title="显示生成这张图的完整 Python 代码">代码</button></div><div class="eazy-toolbar" data-eazy-toolbar="39"></div><div class="eazy-chart" data-eazy-chart="39" style="height:360px"></div><div class="eazy-code" data-eazy-codebox="39"><div class="eazy-code-top"><span class="lang">PYTHON</span><button class="eazy-copybtn" type="button" data-eazy-copy="39">复制</button></div><pre><code>eazy_data_viz.histogram(df, column=&quot;销售额&quot;, bins=24, title=&quot;直方图：销售额分布&quot;, height=360)</code></pre></div></section>
 <section class="eazy-card" style="min-height:420px"><div class="eazy-card-head"><div><div class="eazy-card-title">箱线图：产品销售额离散度</div></div><button class="eazy-codebtn" type="button" data-eazy-code="40" title="显示生成这张图的完整 Python 代码">代码</button></div><div class="eazy-toolbar" data-eazy-toolbar="40"></div><div class="eazy-chart" data-eazy-chart="40" style="height:360px"></div><div class="eazy-code" data-eazy-codebox="40"><div class="eazy-code-top"><span class="lang">PYTHON</span><button class="eazy-copybtn" type="button" data-eazy-copy="40">复制</button></div><pre><code>eazy_data_viz.box(df, x=&quot;产品&quot;, y=&quot;销售额&quot;, title=&quot;箱线图：产品销售额离散度&quot;, height=360)</code></pre></div></section>
@@ -446,7 +446,7 @@ html[data-theme=dark] .eazy-kpi-delta.eazy-down{background:rgba(242,139,130,.14)
     title=&quot;明细表（前 12 行）&quot;,
     height=420,
 )</code></pre></div></section>
-<section class="eazy-card" style="min-height:376px"><div class="eazy-card-head"><div><div class="eazy-card-title">词云：城市销售额</div></div><button class="eazy-codebtn" type="button" data-eazy-code="50" title="显示生成这张图的完整 Python 代码">代码</button></div><div class="eazy-toolbar" data-eazy-toolbar="50"></div><div class="eazy-chart" data-eazy-chart="50" style="height:320px"></div><div class="eazy-code" data-eazy-codebox="50"><div class="eazy-code-top"><span class="lang">PYTHON</span><button class="eazy-copybtn" type="button" data-eazy-copy="50">复制</button></div><pre><code>eazy_data_viz.wordcloud(
+<section class="eazy-card" style="min-height:376px"><div class="eazy-card-head"><div><div class="eazy-card-title">词云：城市销售额</div></div><button class="eazy-codebtn" type="button" data-eazy-code="50" title="显示生成这张图的完整 Python 代码">代码</button></div><div class="eazy-toolbar" data-eazy-toolbar="50"></div><div class="eazy-chart" data-eazy-chart="50" style="min-height:320px"></div><div class="eazy-code" data-eazy-codebox="50"><div class="eazy-code-top"><span class="lang">PYTHON</span><button class="eazy-copybtn" type="button" data-eazy-copy="50">复制</button></div><pre><code>eazy_data_viz.wordcloud(
     df,
     names=&quot;城市&quot;,
     values=&quot;销售额&quot;,

diff --git a/tools/shot_code.py b/tools/shot_code.py
@@ -1,0 +1,80 @@
+"""截取 gallery 中一张卡片展开代码面板后的样子。
+
+用法：python tools/shot_code.py <out.png> [标题子串] [等待秒]
+前置：chrome --headless=new --remote-debugging-port=9222 --remote-allow-origins=*
+"""
+import base64
+import json
+import sys
+import time
+import urllib.request
+
+import websocket
+
+CDP = "http://127.0.0.1:9222"
+URL = "file:///F:/deepseek/eazy_data_viz/gallery.html"
+OUT = sys.argv[1]
+NEEDLE = sys.argv[2] if len(sys.argv) > 2 else ""
+WAIT = float(sys.argv[3]) if len(sys.argv) > 3 else 18.0
+
+
+def http_json(path):
+    with urllib.request.urlopen(CDP + path, timeout=10) as r:
+        return json.loads(r.read().decode("utf-8"))
+
+
+def main():
+    ver = http_json("/json/version")
+    ws = websocket.create_connection(ver["webSocketDebuggerUrl"], timeout=60)
+    mid = [0]
+
+    def send(method, params=None):
+        sid = mid[0]
+        mid[0] += 1
+        ws.send(json.dumps({"id": sid, "method": method, "params": params or {}}))
+        while True:
+            msg = json.loads(ws.recv())
+            if msg.get("id") == sid:
+                return msg
+
+    send("Target.createTarget", {"url": "about:blank"})
+    page = [t for t in http_json("/json/list") if t["type"] == "page"][0]
+    ws.close()
+    ws = websocket.create_connection(page["webSocketDebuggerUrl"], timeout=180)
+    send("Page.enable")
+    send("Runtime.enable")
+    send("Emulation.setDeviceMetricsOverride",
+         {"width": 1500, "height": 1400, "deviceScaleFactor": 1, "mobile": False})
+    send("Page.navigate", {"url": URL})
+    print("navigated, waiting %.0fs ..." % WAIT)
+    time.sleep(WAIT)
+
+    expr = """(function(){
+      var needle=%s;
+      var cards=[].slice.call(document.querySelectorAll('.eazy-card'));
+      var card=null;
+      for (var i=0;i<cards.length;i++){
+        if (!needle || (cards[i].textContent||'').indexOf(needle)>=0){ card=cards[i]; break; }
+      }
+      if(!card) return 'no card';
+      var btn=card.querySelector('[data-eazy-code]');
+      if(!btn) return 'no code button';
+      btn.click();
+      var ab=document.querySelector('.eazy-appbar'); if(ab) ab.style.position='static';
+      var r=card.getBoundingClientRect();
+      window.scrollTo(0, window.scrollY + r.top - 24);
+      return 'ok';
+    })()""" % json.dumps(NEEDLE)
+    res = send("Runtime.evaluate", {"expression": expr, "returnByValue": True})
+    print("click:", res.get("result", {}).get("result", {}).get("value"))
+    time.sleep(1.5)
+
+    shot = send("Page.captureScreenshot", {"format": "png"})
+    data = base64.b64decode(shot["result"]["data"])
+    with open(OUT, "wb") as f:
+        f.write(data)
+    print("saved", OUT, len(data), "bytes")
+
+
+if __name__ == "__main__":
+    main()

diff --git a/eazy_data_viz/render.py b/eazy_data_viz/render.py
@@ -368,9 +368,15 @@ def _card_html(spec, index):
                      'title="显示生成这张图的完整 Python 代码">代码</button>' % index)
         head += "</div>"
     kind = spec.get("type")
+    # HTML 类组件（KPI/进度/瓦片/词云）按内容自适应高度，避免展开代码面板时压住正文；
+    # table 需要固定高度才能内部滚动。
+    AUTO_HEIGHT_TYPES = ("kpi", "group_kpi", "progress", "tile", "wordcloud")
     if kind == "kpi":
-        body = ('<div class="eazy-kpi" data-eazy-chart="%d" style="height:%dpx"></div>'
+        body = ('<div class="eazy-kpi" data-eazy-chart="%d" style="min-height:%dpx"></div>'
                 % (index, int(spec.get("height", 150))))
+    elif kind in AUTO_HEIGHT_TYPES:
+        body = ('<div class="eazy-chart" data-eazy-chart="%d" style="min-height:%dpx"></div>'
+                % (index, int(spec.get("height", 320))))
     elif kind in HTML_TYPES:
         body = ('<div class="eazy-chart" data-eazy-chart="%d" style="height:%dpx"></div>'
                 % (index, int(spec.get("height", 320))))
